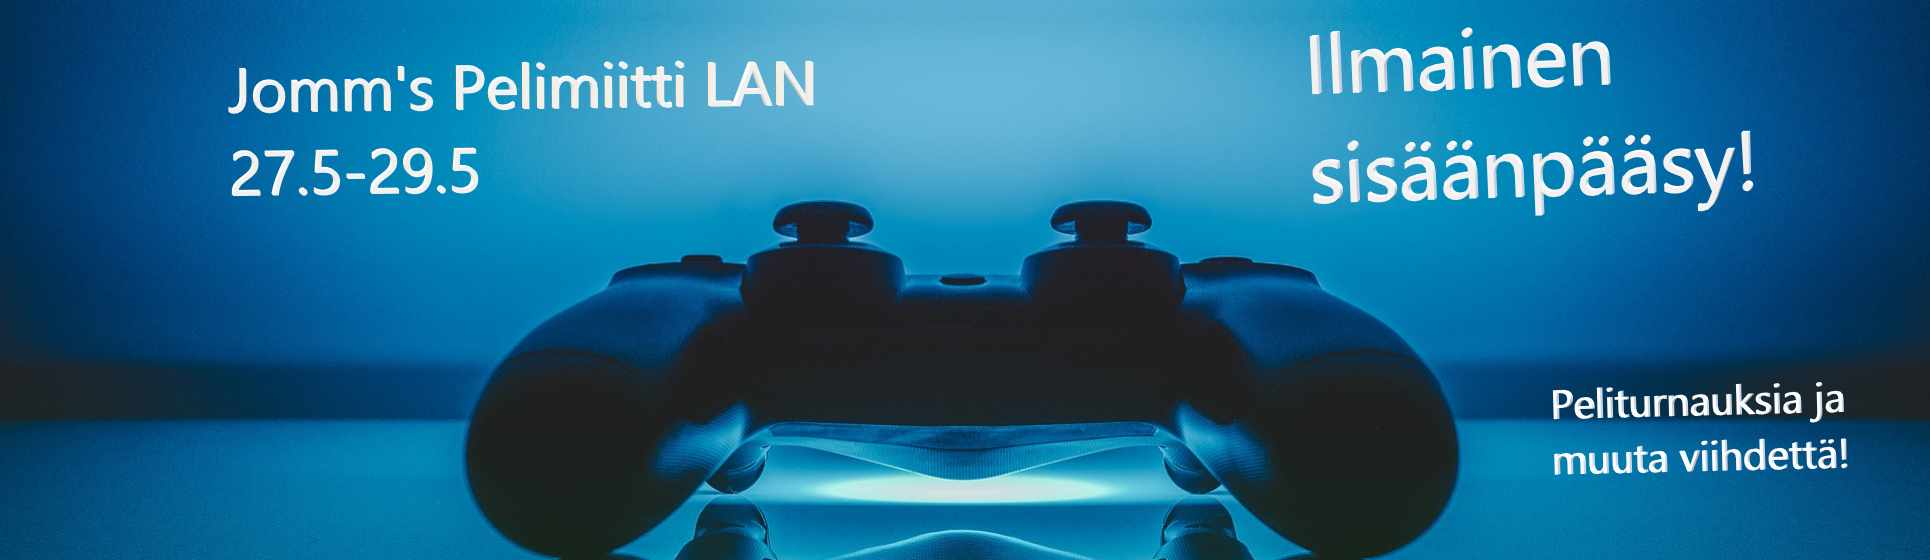
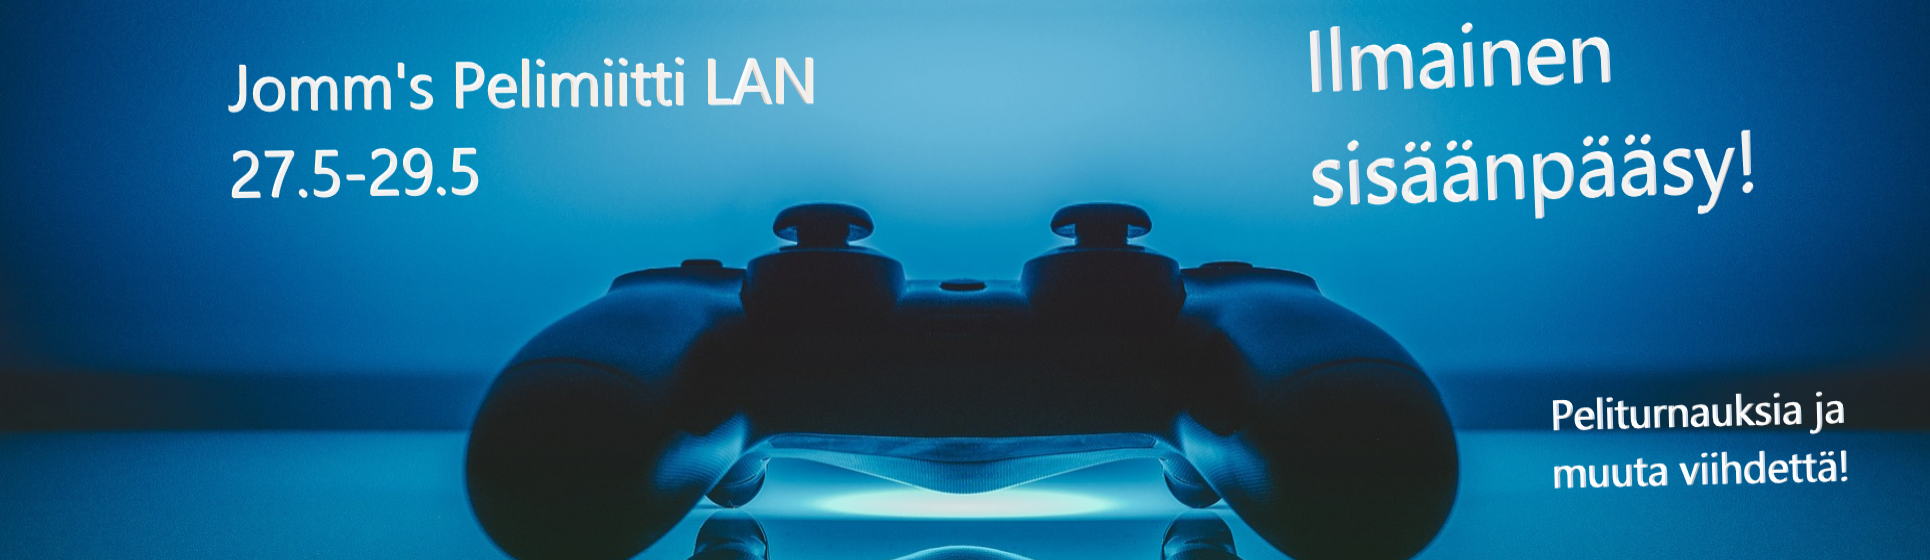
etusivu muutoksia

diff --git a/src/App.css b/src/App.css
@@ -6,10 +6,6 @@ header {
     padding-left: 15px;
 }
 
-img {
-    padding-left: 10px;
-    max-height: 500px;
-}
 
 .logoboisJOMS {
     padding-left: 1px;
@@ -50,8 +46,8 @@ input[type=text], input[type=number], input[type=email], select, textarea {
     }
     
     .navbarMargin {
-        margin-left: 300px;
-        margin-right: 300px;
+        margin-left: 12px;
+        margin-right: 12px;
     }
 
     .HakuOikealle {
@@ -76,7 +72,8 @@ input[type=text], input[type=number], input[type=email], select, textarea {
   /* lisää muokkauksia mainoksille "karuselli" //KESKEN//  */
 
   .mainosKokoa {
-      max-height: 1000px;
+      max-height: 1500px;
+      max-width: 1500px;
   }
 
   .marginLisäys {

diff --git a/src/App.js b/src/App.js
@@ -23,11 +23,15 @@ function App() {
     <NavbarFixedTOP />
 
 
-    <Header />
+    <Header />  
+
+    <div className='container'>
     <Navbar url={URL}/>
   <div className='container'>
  
     <BootstrapCarousel />
+
+    </div>
 
     <BootstrapCard />
 

diff --git a/src/components/Bootstrap_Carousel.js b/src/components/Bootstrap_Carousel.js
@@ -10,7 +10,7 @@ export default function Bootstrap_Carousel() {
     return (
 
 <div>
-<Carousel className="marginLisäys mainosKokoa">
+<Carousel >
   <Carousel.Item>
     <img
       className="d-block w-100"
